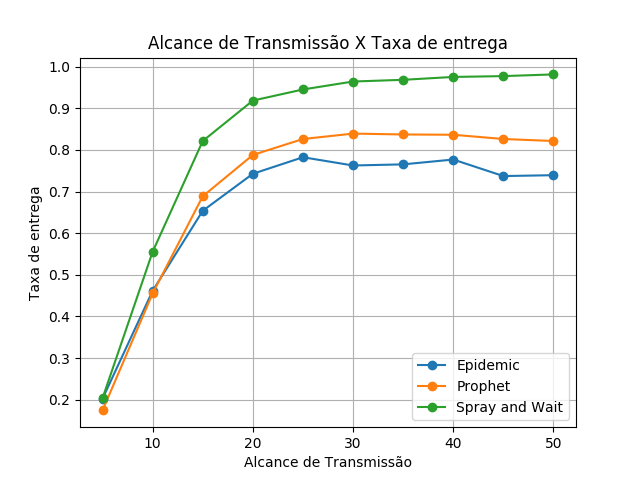
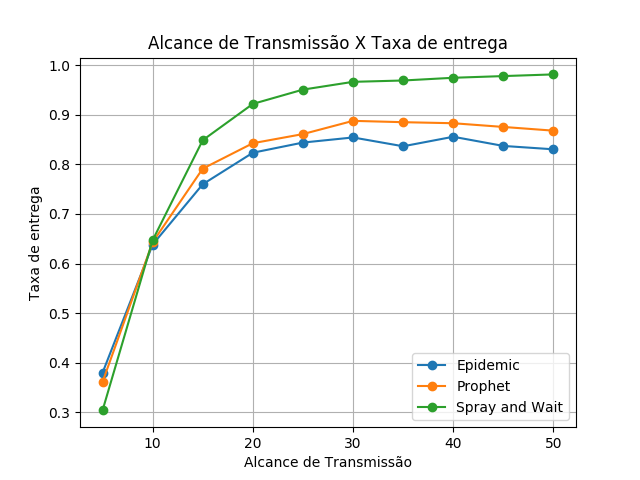
parte final

diff --git a/resultsCollector.py b/resultsCollector.py
@@ -38,11 +38,11 @@ def gera_grafico(cur_range, line, xlabel, ylabel, fixed="range", buff=50, nodes=
 	plt.cla()
 
 def main(args):
-	results = [("Taxa de entrega", 9), ("Latencia Média", 12)]
+	results = [("Taxa de entrega", 9), ("Latencia Média", 12), ("Overhead", 11), ("Buffer time", 16)]
 	parameters = [("Alcance de Transmissão", range(5, 55, 5)), ("Número de Nós", range(20, 160, 20)), ("Tamanho do Buffer", range(25, 120, 25))] 
 	for result in results:
 		for parameter in parameters:
-			gera_grafico(parameter[1], result[1], parameter[0], result[0], fixed=parameter[0])
+			gera_grafico(parameter[1], result[1], parameter[0], result[0], fixed=parameter[0], buff=100, nodes=140, rang=50)
 	return 0
 
 if __name__ == '__main__':
